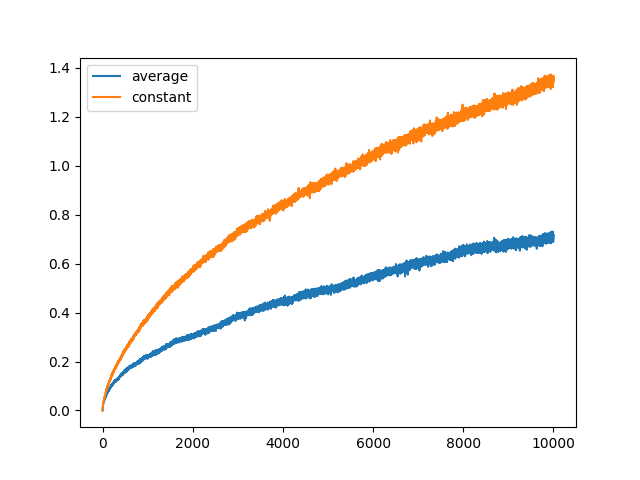
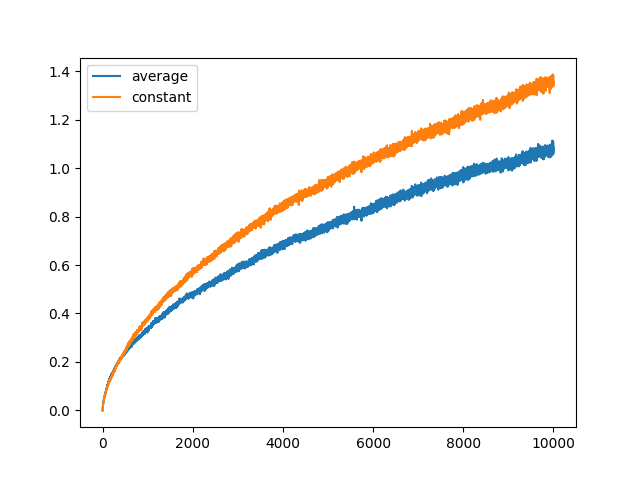
fix: average action value calc
use a separate n per action

diff --git a/sutton/action_values_2_5.py b/sutton/action_values_2_5.py
@@ -16,6 +16,9 @@ def run(epsilon = 0.1, alpha = 0.1, num_steps = 10000):
   Q_avg = np.zeros(10)
   Q_const = np.zeros(10)
 
+  # Track number of times an action is sampled to properly average
+  N_avg = np.zeros(10)
+
   rewards_from_avg, rewards_from_const, avg_is_optimal, const_is_optimal = [], [], [], []
 
   for n in range(1, num_steps + 1):
@@ -32,7 +35,8 @@ def run(epsilon = 0.1, alpha = 0.1, num_steps = 10000):
       const_i = np.random.choice(10)
 
     # average the sample value
-    Q_avg[avg_i] = Q_avg[avg_i] + ((1 / n) * (q_star[avg_i] - Q_avg[avg_i]))
+    N_avg[avg_i] += 1
+    Q_avg[avg_i] = Q_avg[avg_i] + ((1 / N_avg[avg_i]) * (q_star[avg_i] - Q_avg[avg_i]))
 
     # use constant update
     Q_const[const_i] = Q_const[const_i] + (alpha * (q_star[const_i] - Q_const[const_i]))
@@ -66,18 +70,14 @@ const_is_optimal = np.array(const_is_optimal)
 
 df = pd.DataFrame()
 df['average'] = rewards_from_avg.mean(axis=0)
-# df['average'] = df['average'].rolling(20).mean()
 df['constant'] = rewards_from_const.mean(axis=0)
-# df['constant'] = df['constant'].rolling(20).mean()
 ax = df.plot()
 fig = ax.get_figure()
-fig.savefig('../output/sutton_2.5_avg_reward.png')
+fig.savefig('./output/sutton_2.5_avg_reward.png')
 
 df = pd.DataFrame()
 df['average'] = avg_is_optimal.mean(axis=0)
-# df['average'] = df['average'].rolling(20).mean()
 df['constant'] = const_is_optimal.mean(axis=0)
-# df['constant'] = df['constant'].rolling(20).mean()
 ax = df.plot()
 fig = ax.get_figure()
-fig.savefig('../output/sutton_2.5_optimal.png')
+fig.savefig('./output/sutton_2.5_optimal.png')
